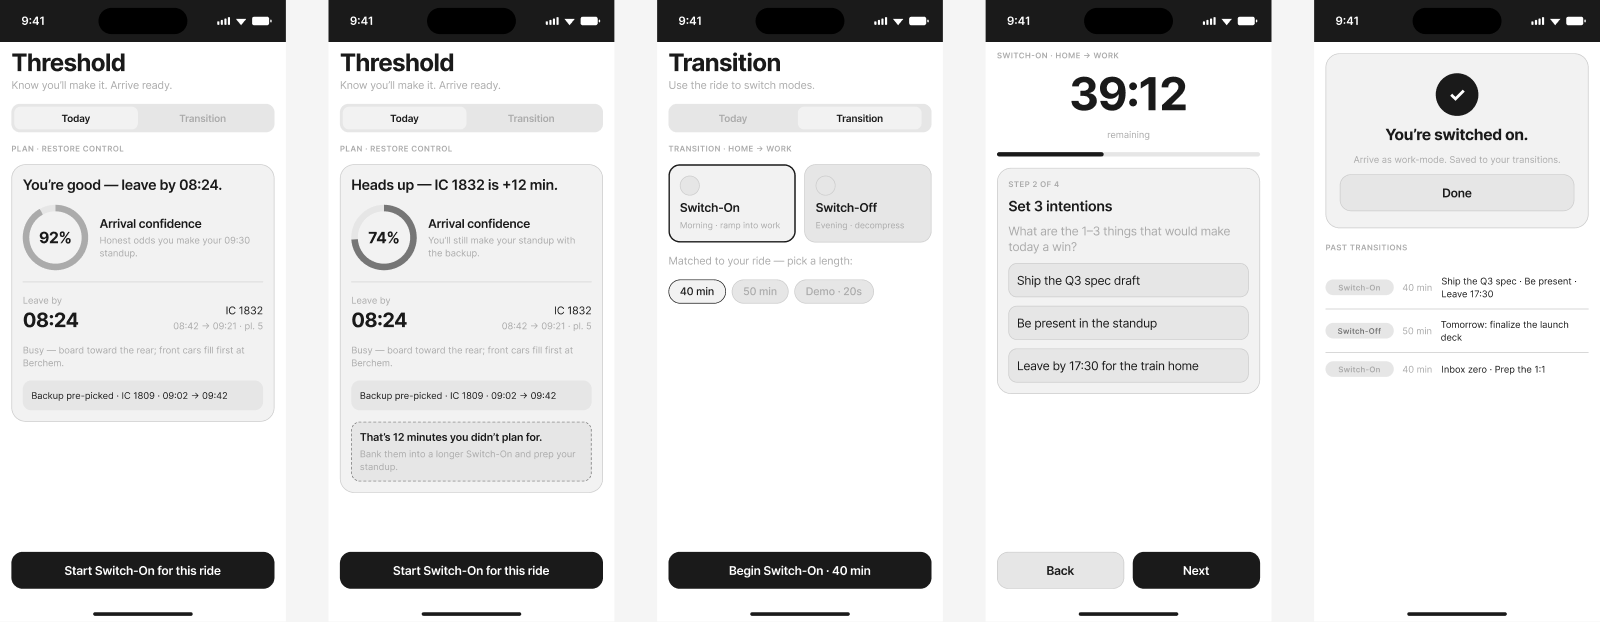
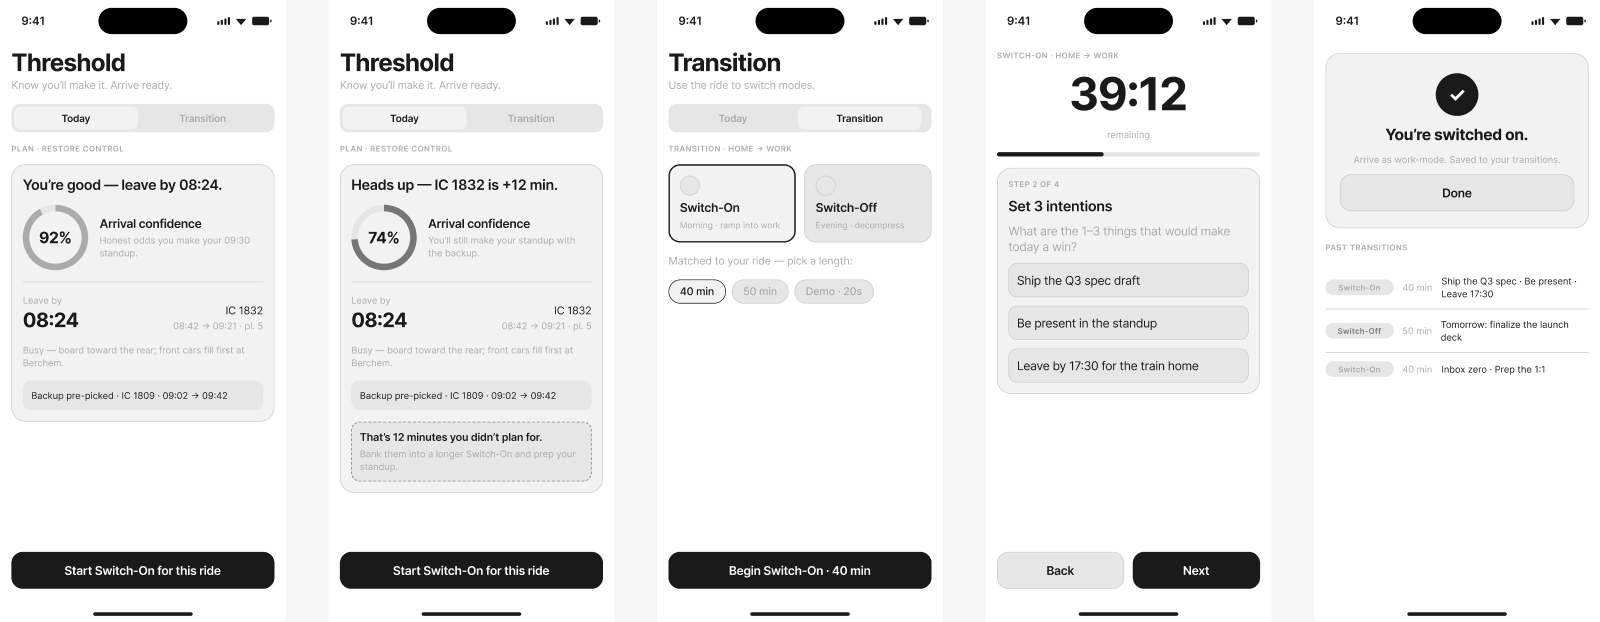
Align demo toggle (single-line, left) + refresh wireframes shot
- .demo-panel .toggle: justify-content flex-start + nowrap so the checkbox and
  'Simulate a delay' label sit on one line (no spread/wrap)
- (Figma) wireframe status bar is now light instead of black — refreshed the
  case-study wireframes screenshot to match

Changed region(s): [[0.0, 0.0, 1.0, 0.0916]]

diff --git a/frontend/src/styles.css b/frontend/src/styles.css
@@ -218,7 +218,7 @@ body {
   background: rgba(20, 26, 34, 0.92); border: 1px solid var(--border); backdrop-filter: blur(10px);
 }
 .demo-label, .demo-hint { display: none; }
-.demo-panel .toggle { color: var(--text); font-size: 14px; }
+.demo-panel .toggle { justify-content: flex-start; gap: 10px; white-space: nowrap; color: var(--text); font-size: 14px; }
 
 /* About + Tour (left panel) */
 .about-panel h2 { font-size: 24px; font-weight: 700; letter-spacing: -0.5px; }